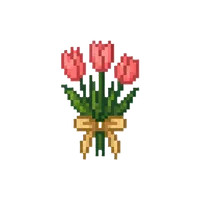
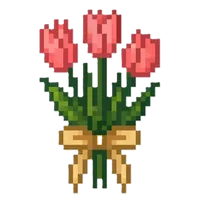
small edits, fixing flowers

diff --git a/src/profile/blocks/PolaroidWall.tsx b/src/profile/blocks/PolaroidWall.tsx
@@ -1,7 +1,9 @@
+import type { CSSProperties } from 'react';
 import { Polaroid } from '@/components/primitives';
 import { BlockHeading } from '../BlockHeading';
 import { flowerArt } from '@/assets/registry';
-import { pictureOf, textAnswer, topFlower } from '@/lib/answerDisplay';
+import { chosenFlowers, pictureOf, textAnswer } from '@/lib/answerDisplay';
+import type { Flower } from '@/config/flowers';
 import type { BlockProps } from '../blockTypes';
 
 const PICKS = [
@@ -17,7 +19,7 @@ const PICKS = [
 
 /** Favourites as tilted photo frames: the picture they picked, or the title they typed. */
 export function PolaroidWall({ profile }: BlockProps) {
-  const flower = topFlower(profile.answers, 'flowers');
+  const bouquet = chosenFlowers(profile.answers, 'flowers').filter((flower) => flower.id in flowerArt);
   const picks = PICKS.map((pick) => ({
     ...pick,
     value: textAnswer(profile.answers, pick.questionId),
@@ -26,13 +28,13 @@ export function PolaroidWall({ profile }: BlockProps) {
     (pick) => pick.value !== '',
   );
 
-  if (picks.length === 0 && !flower) {
+  if (picks.length === 0 && bouquet.length === 0) {
     return null;
   }
 
   return (
     <section>
-      <BlockHeading>On the wall</BlockHeading>
+      <BlockHeading>My picks</BlockHeading>
       <div className="flex flex-wrap justify-center gap-4">
         {picks.map((pick) => (
           <Polaroid key={pick.questionId} caption={pick.caption} tiltSeed={pick.questionId}>
@@ -43,9 +45,9 @@ export function PolaroidWall({ profile }: BlockProps) {
             )}
           </Polaroid>
         ))}
-        {flower && (
-          <Polaroid caption={flower.name} tiltSeed="flower">
-            <img src={flowerArt[flower.id]} alt="" className="h-full w-full object-contain p-3" />
+        {bouquet.length > 0 && (
+          <Polaroid caption={namesOf(bouquet)} tiltSeed="flower">
+            <Bouquet flowers={bouquet} />
           </Polaroid>
         )}
       </div>
@@ -61,4 +63,46 @@ function PictureFill({ src, title }: { src: string; title: string }) {
       <p className="truncate bg-white px-1 pt-1 text-center text-xs font-bold text-ink-soft">{title}</p>
     </div>
   );
+}
+
+/**
+ * Where each flower sits in the frame, by how many were picked. Two lean apart
+ * and overlap in the middle; three make a triangle, the first pick on top and in
+ * front. Positions are percentages of the frame, so they hold at any size.
+ */
+const ARRANGEMENTS: Record<number, CSSProperties[]> = {
+  1: [{ inset: '6%', width: '88%' }],
+  2: [
+    { left: '3%', top: '20%', width: '60%', rotate: '-7deg' },
+    { right: '3%', top: '20%', width: '60%', rotate: '7deg' },
+  ],
+  3: [
+    { left: '23%', top: '3%', width: '54%', zIndex: 1 },
+    { left: '3%', bottom: '3%', width: '54%', rotate: '-9deg' },
+    { right: '3%', bottom: '3%', width: '54%', rotate: '9deg' },
+  ],
+};
+
+function Bouquet({ flowers }: { flowers: Flower[] }) {
+  const spots = ARRANGEMENTS[flowers.length] ?? ARRANGEMENTS[1];
+
+  return (
+    <div className="relative h-full w-full">
+      {flowers.slice(0, spots.length).map((flower, index) => (
+        <img
+          key={flower.id}
+          src={flowerArt[flower.id]}
+          alt=""
+          style={spots[index]}
+          className="absolute aspect-square object-contain"
+        />
+      ))}
+    </div>
+  );
+}
+
+/** "Rose", "Rose & Tulip", "Rose, Tulip & Daisy". */
+function namesOf(flowers: Flower[]): string {
+  const names = flowers.map((flower) => flower.name);
+  return names.length < 2 ? names.join('') : `${names.slice(0, -1).join(', ')} & ${names[names.length - 1]}`;
 }

diff --git a/src/lib/answerDisplay.ts b/src/lib/answerDisplay.ts
@@ -1,6 +1,6 @@
 import { questionsById } from '@/config/questions';
 import { flowers, type Flower } from '@/config/flowers';
-import { cutouts, flowerArt, type CutoutSet } from '@/assets/registry';
+import { cutouts, type CutoutSet } from '@/assets/registry';
 import { swatches, type SwatchId } from '@/config/swatches';
 import type { Answers } from '@/state/useAnswers';
 import { isPictureAnswer, type SongAnswer } from '@/config/questionTypes';
@@ -63,7 +63,8 @@ export function chosenSwatches(answers: Answers, questionId: string): SwatchTrip
   return (value as SwatchId[]).filter((id) => id in swatches).map((id) => swatches[id]);
 }
 
-export function chosenFlowerNames(answers: Answers, questionId: string): string[] {
+/** Their flowers in the order they picked them, skipping any no longer on the list. */
+export function chosenFlowers(answers: Answers, questionId: string): Flower[] {
   const value = answers[questionId];
 
   if (!Array.isArray(value)) {
@@ -71,15 +72,12 @@ export function chosenFlowerNames(answers: Answers, questionId: string): string[
   }
 
   return (value as string[])
-    .map((id) => flowers.find((flower) => flower.id === id)?.name)
-    .filter((name): name is string => name !== undefined);
+    .map((id) => flowers.find((flower) => flower.id === id))
+    .filter((flower): flower is Flower => flower !== undefined);
 }
 
-/** Their first-picked flower, or undefined when none was picked or its art is missing. */
-export function topFlower(answers: Answers, questionId: string): Flower | undefined {
-  const value = answers[questionId];
-  const first = Array.isArray(value) ? value[0] : undefined;
-  return flowers.find((flower) => flower.id === first && flower.id in flowerArt);
+export function chosenFlowerNames(answers: Answers, questionId: string): string[] {
+  return chosenFlowers(answers, questionId).map((flower) => flower.name);
 }
 
 /** The chosen picture's name, or undefined when skipped or when its art has since been removed. */

diff --git a/src/config/questions.ts b/src/config/questions.ts
@@ -309,6 +309,7 @@ export const questions: readonly Question[] = [
       { value: 'maxmax', label: 'Maximum Maximalism' },
       { value: 'gallery', label: 'Art covering the walls' },
       { value: 'spotless', label: 'Spotless and uncluttered' },
+      { value: 'minimal', label: 'Bare minimum furniture' },
       { value: 'blanketFort', label: 'Blankets and cushions everywhere' },
     ],
   },
